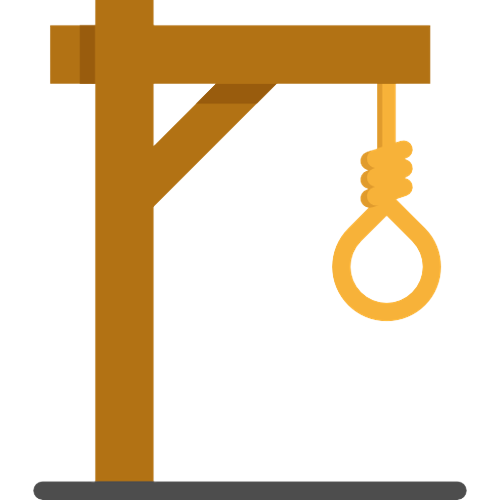
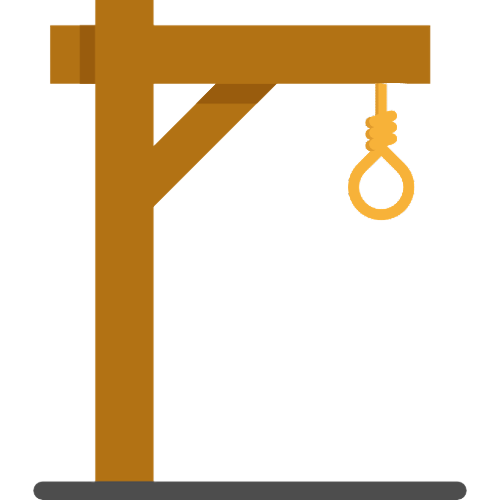
Primeira versão do front-end

Changed region(s): [[0.66, 0.15, 0.9, 0.66]]

diff --git a/index.html b/index.html
@@ -6,39 +6,79 @@
         <title>Jogo da Forca</title>
         <link rel="stylesheet" type="text/css" href="reset.css">
         <link rel="stylesheet" href="style.css">
+        <link rel="preconnect" href="https://fonts.googleapis.com">
+        <link rel="preconnect" href="https://fonts.gstatic.com" crossorigin>
+        <link href="https://fonts.googleapis.com/css2?family=Indie+Flower&display=swap" rel="stylesheet">
         <script src="script.js"></script>
 
     </head>
     <body>
         <header class="cabecalho">
-            <p>Jogo da Forca</p>
+            <img src="img/logoAlura.png" alt="Logo Alura" class="logo">
         </header>
 
         <main>
-            <section class="forca">
-                <div>
-                    <p>Imagem da forca fica aqui!</p>
-                    <img src="img/ganhou.png" id="imagem-forca" onmouseup="mudaImagem();">  
+            <section class="sessao-forca">
+                <div class="forca">
+                    <img src="img/forca1.png" id="imagem-forca" onmouseup="mudaImagem();">  
                 </div>
-                
             </section>
 
             <section class="palavra-jogo">
-                <p>linhas com a palavra a ser decifrada aqui!</p>
+                <p>Jogo da Forca</p>
             </section>
 
-            <section class="teclado">
-                <p>Teclado aqui!</p>
+            <section class="sessao-teclado">
+                <div class="teclado">
+                    <div class="teclado-linha1">
+                        <button>Q</button>
+                        <button>W</button>
+                        <button>E</button>
+                        <button>R</button>
+                        <button>T</button>
+                        <button>Y</button>
+                        <button>U</button>
+                        <button>I</button>
+                        <button>O</button>
+                        <button>P</button>    
+                    </div> 
+                    <div class="teclado-linha2">
+                        <button>A</button>
+                        <button>S</button>
+                        <button>D</button>
+                        <button>F</button>
+                        <button>H</button>
+                        <button>J</button>
+                        <button>K</button>
+                        <button>L</button>
+                        <button>Ç</button>
+                    </div>
+                    <div class="teclado-linha3">
+                        <button>Z</button>
+                        <button>X</button>
+                        <button>C</button>
+                        <button>V</button>
+                        <button>B</button>
+                        <button>N</button>
+                        <button>M</button>
+                    </div>   
+                </div> 
             </section>
 
             <section class="botoes">
-                <p>botoes ficam aqui!</p>
+                <button>Novo Jogo</button>
+                <button>Adicionar Palavra</button>
+                <button>Desistir</button>
             </section>
-
         </main>
 
         <footer class="rodape">
-            <p>Desenvolvido por Kariny</p>
+            <div class="imagem-rodape">
+                <a href="https://www.linkedin.com/in/anakariny/" target="_blank"><img src="img/linkedin-logo.png"></a>
+                <a href="https://github.com/akariny" target="_blank"><img src="img/github-logo.png"></a>    
+            </div>
+            <p>Desenvolvido por: Ana Kariny &copy; 2022</p>
+            <p>Oracle Next Education T3 | Alura </p>
         </footer>
     </body>
 </html>

diff --git a/style.css b/style.css
@@ -1,19 +1,101 @@
+body {
+    font-family: 'Indie Flower', cursive;
+    background: url(img/fundo.jpg);
+}
 .cabecalho {
-    background-color: pink;
+    display: flex;
+    flex-direction: row;
+    justify-content: flex-start;
+    width: 100%;
+    height: 30px;
+    padding: 5px 0;
+    /*background: purple;*/
 }
 
-.forca {
+.logo {
+    padding-left: 2%;
+    height: 35px;
+}
+
+.sessao-forca {
     width: 50%;
-    height: 300px;
+    height: 100%;
     margin: 0 auto;
-    background: blue;
+    /*background: blue;*/
     box-sizing: border-box;
 }
 
+.forca {
+    display: flex;
+    justify-content: center;
+    margin: 0 0 15px 0;
+}
+
 #imagem-forca {
-    width: 200px;
+    width: 35%;
+}
+
+.palavra-jogo {
+    /*background: red;*/
+    text-align: center;
+    height: 40px;
+}
+
+.palavra-jogo p {
+    font-size: 2em;
+}
+
+.teclado {
+    /*background: burlywood;*/
+    width: 50%;
+    margin: 10px auto;
+    text-align: center;
+}
+
+.teclado button {
+    font-family: 'Indie Flower', cursive;
+    font-size: 18px;
+    margin: 2px 0;
+    padding: 5px 10px;
+    border: none;
+    border-radius: 5px;
+}
+
+.botoes {
+    /* background: brown;*/
+    text-align: center;
+}
+
+.botoes button {
+    font-family: 'Indie Flower', cursive;
+    font-size: 18px;
+    margin: 0 5px;
+    padding: 5px 10px;
+    border: none;
+    border-radius: 5px;
 }
 
 .rodape {
-    background-color: green;
+    display: flex;
+    flex-direction: row;
+    margin-top: 30px;
+    justify-content: center;
+    /* background: green;*/
+}
+
+.rodape p {
+    text-align: center;
+    font-family: 'Times New Roman', Times, serif;
+    color: #495057;
+    font-size: 10px;
+    padding: 5px 5px;
+}
+
+.rodape a {
+    padding: 10px 0;
+}
+
+.rodape a img {
+    height: 15px;
+    padding: 2px 0;
 }

diff --git a/script.js b/script.js
@@ -1,5 +1,5 @@
 function mudaImagem() {
-    document.getElementById("imagem-forca").src = "img/perdeu.jpg";
+    document.getElementById("imagem-forca").src = "img/forca2.png";
 }
 
 //função para mudar a imagem da forca conforme for errando as letras, ajustar depois
